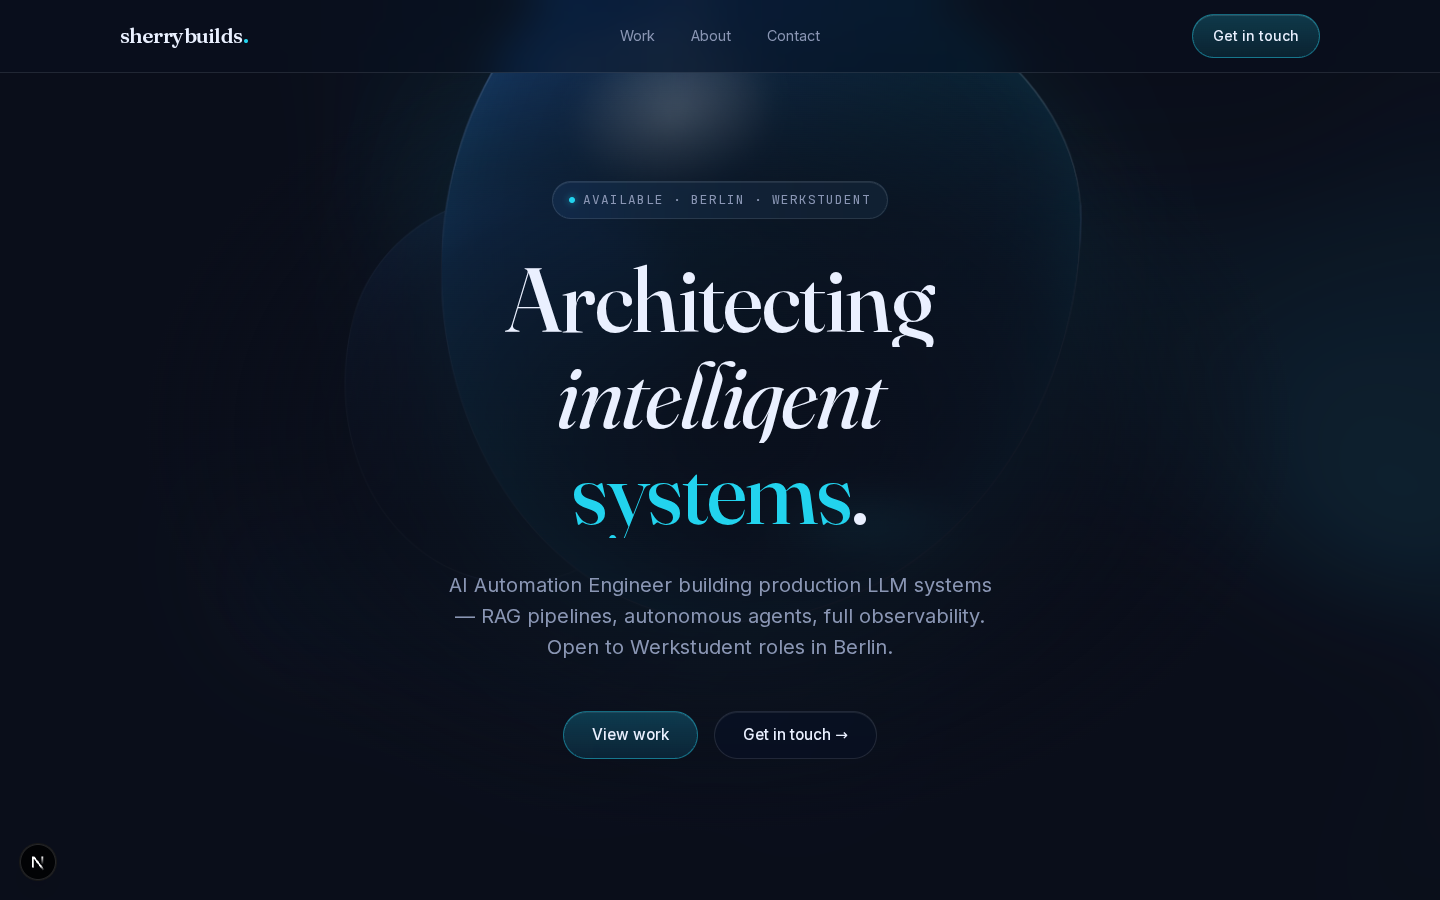
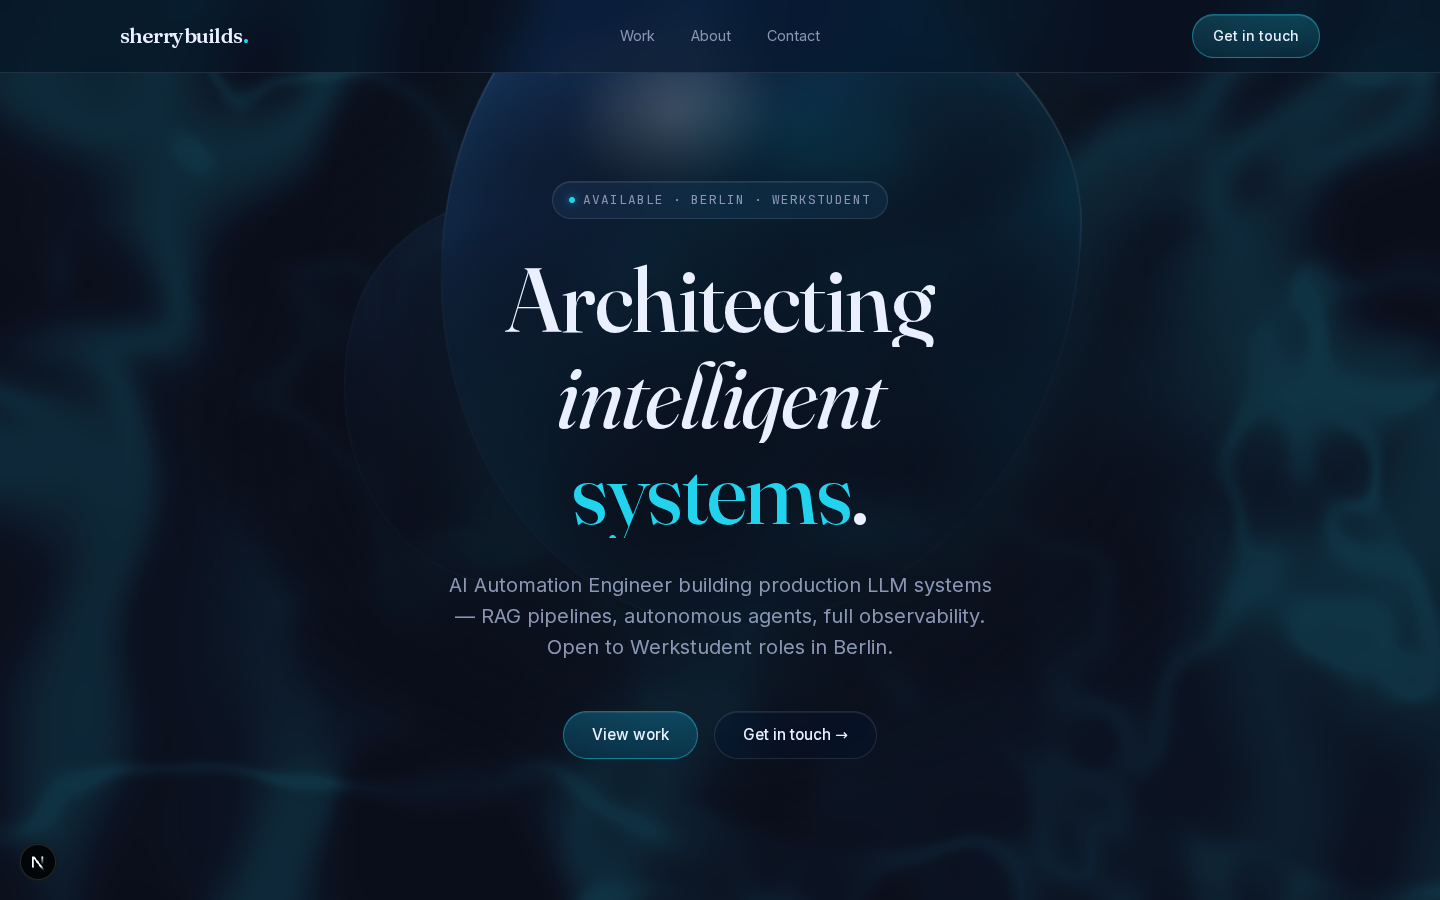
feat(portfolio-dark): ferrofluid liquid-metal ambient background
- Native ferrofluid shader (no ReactBits, no libraries): ridged,
  domain-warped fbm — thin liquid-metal tendrils that morph
  continuously, plus a faked directional sheen for the metallic feel
- Recolored to the palette: navy #0A0E1A base, blue #3B82F6 mass,
  cyan #22D3EE crests — reads blue, not white
- Takes over the ONE site-wide ambient slot (AuroraVeil unmounted,
  kept in repo); fixed behind all sections, hero object + scrim in
  front and untouched
- Background discipline: intensity 0.20 desktop / 0.12 mobile, thin
  filaments keep average luminance low; text verified crisp on both
  viewports; screenshots/bg-ferrofluid-raw.png shows the layer alone
- Perf: DPR 1, one fullscreen triangle, mobile drops the fine
  filament layer, low-power context, rAF pauses on hidden tabs
- prefers-reduced-motion: one static blue-gradient frame, no loop

Verified: 1440 + 375 captures, 0 console errors, 0 overflow,
tsc + eslint clean.

diff --git a/src/components/portfolio-dark/Ferrofluid.tsx b/src/components/portfolio-dark/Ferrofluid.tsx
@@ -1,0 +1,179 @@
+"use client";
+
+import { useEffect, useRef } from "react";
+
+/**
+ * Ferrofluid ambient background — THE one site-wide layer behind all
+ * sections (replaces AuroraVeil in the slot; that file stays in the repo,
+ * unmounted). Flowing liquid-metal tendrils built from ridged, domain-
+ * warped value noise: thin bright filaments where the field crosses its
+ * midline, with a faked directional sheen for the metallic feel.
+ * Recolored to the site palette: navy base, blue mass, cyan crests.
+ *
+ * Raw WebGL, no libraries. Background discipline:
+ * - low intensity (0.20 desktop / 0.12 mobile), thin filaments only —
+ *   average luminance stays low so the glass object remains the star
+ * - DPR capped at 1; mobile skips the fine second filament layer
+ * - prefers-reduced-motion: one static frame (frozen blue gradient)
+ * - rAF pauses on hidden tabs; context released on unmount
+ */
+
+const FRAG = `
+precision mediump float;
+uniform float uTime;
+uniform vec2 uRes;
+uniform float uIntensity;
+uniform float uDetail;
+
+float hash(vec2 p) { return fract(sin(dot(p, vec2(127.1, 311.7))) * 43758.5453); }
+
+float noise(vec2 p) {
+  vec2 i = floor(p);
+  vec2 f = fract(p);
+  vec2 u = f * f * (3.0 - 2.0 * f);
+  return mix(
+    mix(hash(i), hash(i + vec2(1.0, 0.0)), u.x),
+    mix(hash(i + vec2(0.0, 1.0)), hash(i + vec2(1.0, 1.0)), u.x),
+    u.y
+  );
+}
+
+float fbm(vec2 p, float t) {
+  float v = 0.0;
+  v += noise(p + vec2(t, -t * 0.6)) * 0.55;
+  v += noise(p * 2.1 + vec2(-t * 0.7, t * 0.4)) * 0.3;
+  v += noise(p * 4.3 + vec2(t * 0.3, t * 0.8)) * 0.15;
+  return v;
+}
+
+void main() {
+  vec2 uv = gl_FragCoord.xy / uRes;
+  vec2 p = vec2(uv.x * uRes.x / uRes.y, uv.y) * 1.4;
+
+  float t = uTime * 0.05; // continuous, slow
+
+  // domain warp — the "magnetic" flow
+  vec2 warp = vec2(fbm(p + vec2(0.0, 3.7), t), fbm(p + vec2(5.2, 1.3), t * 0.85));
+  float n = fbm(p * 1.15 + warp * 1.7, t);
+
+  // ridged: thin bright filaments where the field crosses its midline
+  float ridge = 1.0 - abs(2.0 * n - 1.0);
+  ridge = pow(smoothstep(0.62, 1.0, ridge), 3.0);
+
+  float glow = ridge * 0.85;
+
+  // finer secondary tendrils (desktop only)
+  if (uDetail > 1.5) {
+    float n2 = fbm(p * 2.6 - warp * 1.2, t * 1.25);
+    float ridge2 = 1.0 - abs(2.0 * n2 - 1.0);
+    glow += pow(smoothstep(0.7, 1.0, ridge2), 4.0) * 0.35;
+  }
+
+  // faked metallic sheen — directional gradient of the field
+  float sheen = clamp((fbm(p * 1.15 + warp * 1.7 + vec2(0.03, 0.015), t) - n) * 7.0, -1.0, 1.0);
+
+  vec3 blue = vec3(0.231, 0.51, 0.965);  /* --accent-2 #3B82F6 */
+  vec3 cyan = vec3(0.133, 0.827, 0.933); /* --accent   #22D3EE */
+  vec3 col = mix(blue * 0.55, cyan, clamp(glow * 0.8 + sheen * 0.25, 0.0, 1.0));
+
+  float alpha = clamp(glow, 0.0, 1.0) * uIntensity;
+  gl_FragColor = vec4(col * alpha, alpha); /* premultiplied */
+}
+`;
+
+const VERT = `
+attribute vec2 aPos;
+void main() { gl_Position = vec4(aPos, 0.0, 1.0); }
+`;
+
+export default function Ferrofluid() {
+  const canvasRef = useRef<HTMLCanvasElement>(null);
+
+  useEffect(() => {
+    const canvas = canvasRef.current;
+    if (!canvas) return;
+    const gl = canvas.getContext("webgl", {
+      alpha: true,
+      antialias: false,
+      depth: false,
+      powerPreference: "low-power",
+    });
+    if (!gl) return; // no WebGL → flat navy --bg carries it
+
+    const reduced = window.matchMedia("(prefers-reduced-motion: reduce)").matches;
+    const mobile = window.matchMedia("(max-width: 767px)").matches;
+
+    const compile = (type: number, src: string) => {
+      const s = gl.createShader(type)!;
+      gl.shaderSource(s, src);
+      gl.compileShader(s);
+      return s;
+    };
+    const prog = gl.createProgram()!;
+    gl.attachShader(prog, compile(gl.VERTEX_SHADER, VERT));
+    gl.attachShader(prog, compile(gl.FRAGMENT_SHADER, FRAG));
+    gl.linkProgram(prog);
+    if (!gl.getProgramParameter(prog, gl.LINK_STATUS)) return;
+    gl.useProgram(prog);
+
+    const buf = gl.createBuffer();
+    gl.bindBuffer(gl.ARRAY_BUFFER, buf);
+    gl.bufferData(gl.ARRAY_BUFFER, new Float32Array([-1, -1, 3, -1, -1, 3]), gl.STATIC_DRAW);
+    const loc = gl.getAttribLocation(prog, "aPos");
+    gl.enableVertexAttribArray(loc);
+    gl.vertexAttribPointer(loc, 2, gl.FLOAT, false, 0, 0);
+
+    gl.enable(gl.BLEND);
+    gl.blendFunc(gl.ONE, gl.ONE_MINUS_SRC_ALPHA);
+
+    const uTime = gl.getUniformLocation(prog, "uTime");
+    const uRes = gl.getUniformLocation(prog, "uRes");
+    const uIntensity = gl.getUniformLocation(prog, "uIntensity");
+    const uDetail = gl.getUniformLocation(prog, "uDetail");
+
+    gl.uniform1f(uIntensity, mobile ? 0.12 : 0.2);
+    gl.uniform1f(uDetail, mobile ? 1 : 2);
+
+    const resize = () => {
+      canvas.width = canvas.clientWidth; // DPR 1 — soft background
+      canvas.height = canvas.clientHeight;
+      gl.viewport(0, 0, canvas.width, canvas.height);
+      gl.uniform2f(uRes, canvas.width, canvas.height);
+    };
+    resize();
+    window.addEventListener("resize", resize);
+
+    const draw = (timeSec: number) => {
+      gl.uniform1f(uTime, timeSec);
+      gl.clearColor(0, 0, 0, 0);
+      gl.clear(gl.COLOR_BUFFER_BIT);
+      gl.drawArrays(gl.TRIANGLES, 0, 3);
+    };
+
+    let raf = 0;
+    if (reduced) {
+      draw(40); // static blue gradient frame
+    } else {
+      const loop = (t: number) => {
+        draw(t / 1000);
+        raf = requestAnimationFrame(loop);
+      };
+      raf = requestAnimationFrame(loop);
+    }
+
+    return () => {
+      cancelAnimationFrame(raf);
+      window.removeEventListener("resize", resize);
+      gl.getExtension("WEBGL_lose_context")?.loseContext();
+    };
+  }, []);
+
+  return (
+    <canvas
+      ref={canvasRef}
+      aria-hidden="true"
+      className="pointer-events-none fixed inset-0 h-full w-full"
+      style={{ zIndex: 0 }}
+    />
+  );
+}

diff --git a/src/app/page.tsx b/src/app/page.tsx
@@ -1,5 +1,5 @@
 import SmoothScroll from "@/components/portfolio/SmoothScroll";
-import AuroraVeil from "@/components/portfolio-dark/AuroraVeil";
+import Ferrofluid from "@/components/portfolio-dark/Ferrofluid";
 import DarkNav from "@/components/portfolio-dark/DarkNav";
 import DarkHero from "@/components/portfolio-dark/DarkHero";
 
@@ -16,7 +16,7 @@ export default function Home() {
       </a>
       <SmoothScroll />
       {/* THE one ambient layer, site-wide, behind all sections */}
-      <AuroraVeil />
+      <Ferrofluid />
       <DarkNav />
       <main id="main" className="relative" style={{ zIndex: 1 }}>
         <DarkHero />
